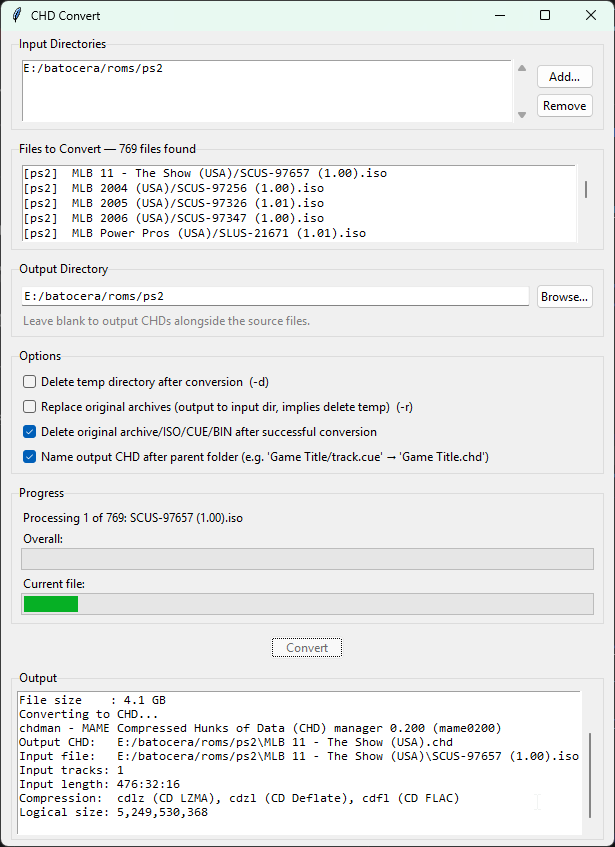
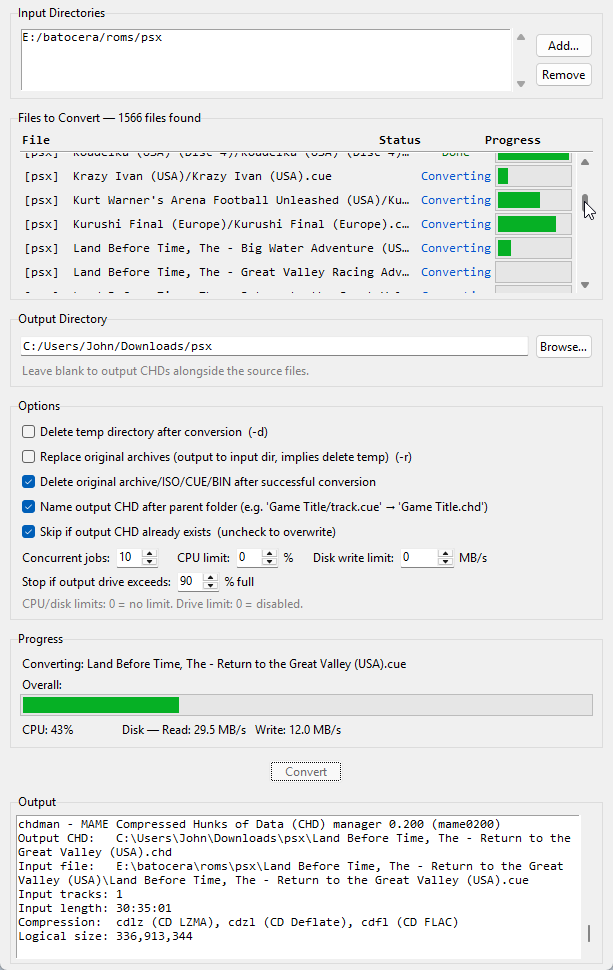
Update README.md for clarity and enhance GUI documentation

diff --git a/README.md b/README.md
@@ -1,6 +1,6 @@
 # CHDconvert
 
-Converts a directory of archives (`.gz`, `.7z`, `.zip`) or loose disc images (`.iso`, `.cue`, `.bin`) into `.chd` files, for use with console emulators. Includes both a command-line script and a GUI application.
+Converts a directory of archives (`.gz`, `.7z`, `.zip`) or loose disc images (`.iso`, `.cue`/`.bin`) into `.chd` files, for use with console emulators.
 
 ---
 
@@ -10,9 +10,10 @@ Converts a directory of archives (`.gz`, `.7z`, `.zip`) or loose disc images (`.
 - [`Git`](https://git-scm.com/download/win) (for cloning)
 - `chdman` — included on Windows (`chdman.exe`). On Linux/Mac, install via your package manager (see below).
 
-Optional (for `.7z` support):
+Optional:
 ```
-pip install py7zr
+pip install psutil   # CPU/disk monitoring, live stats, core affinity
+pip install py7zr    # .7z archive support
 ```
 
 ---
@@ -61,27 +62,48 @@ Launch the graphical interface:
 python chdconvert_gui.py
 ```
 
-### What it does
+### Input Directories
 
-- Add one or more input directories using the **Add…** button
-- The file list auto-populates with all convertible files found — archives and loose ISO/CUE/BIN files in the selected directories and all subdirectories
-- Choose your options, then click **Convert**
+Use the **Add…** button to add one or more input directories. The file list populates automatically with every convertible file found — archives and loose disc images, including subdirectories. Use **Remove** to deselect directories.
+
+### Supported Formats
+
+| Type | Extensions |
+|---|---|
+| Archives | `.zip`, `.gz`, `.7z` |
+| Disc images | `.iso`, `.cue` + `.bin` track files, orphan `.bin` (auto-generates a `.cue`) |
+
+### Output Directory
+
+Leave the output directory blank to write each CHD alongside its source file. Enter or browse to a custom path to send all output there instead.
 
 ### Options
 
 | Option | Description |
 |---|---|
 | Delete temp directory after conversion | Removes the `_tmp` extraction folder when done |
-| Replace original archives | Deletes originals and outputs CHDs into the same input directory (implies delete temp) |
+| Replace original archives | Outputs CHDs into the same input directory and deletes the originals (implies delete temp; disables custom output dir) |
 | Delete original archive/ISO/CUE/BIN after successful conversion | Removes the source file once the CHD has been created successfully |
-| Name output CHD after parent folder | Names the CHD after the containing subfolder instead of the filename — e.g. `Sonic The Hedgehog (USA)/track01.cue` → `Sonic The Hedgehog (USA).chd` |
+| Name output CHD after parent folder | Names the CHD after the containing subfolder — e.g. `Sonic The Hedgehog (USA)/track01.cue` → `Sonic The Hedgehog (USA).chd` |
+| Skip if output CHD already exists | Skips files where a `.chd` of the same name is already present; uncheck to overwrite |
 
-### Output
+### Concurrency & Resource Throttling
 
-By default CHDs are written to a sibling folder named `<input dir>_out`. With **Replace original archives** enabled, they are written back into the input directory.
+| Setting | Description |
+|---|---|
+| Concurrent jobs | Number of files to convert in parallel (1–16) |
+| CPU limit % | Pause starting new jobs when system CPU exceeds this threshold (0 = no limit) |
+| Disk write limit MB/s | Pause starting new jobs when disk write speed exceeds this threshold (0 = no limit) |
+| Stop if output drive exceeds % full | Halt all new conversions when the destination drive reaches this fill level (0 = disabled) |
+
+### Progress
+
+- **Per-file grid** — each file shows its own status (Pending / Converting / Done / Error / Skipped / Stopped) and a live progress bar
+- **Overall bar** — tracks completion across all files
+- **Live resource stats** — real-time CPU% and disk read/write speeds (requires `psutil`)
+- **Log output** — scrollable log of all chdman output and conversion events
 
 ---
-
 
 # Shoutouts
 
